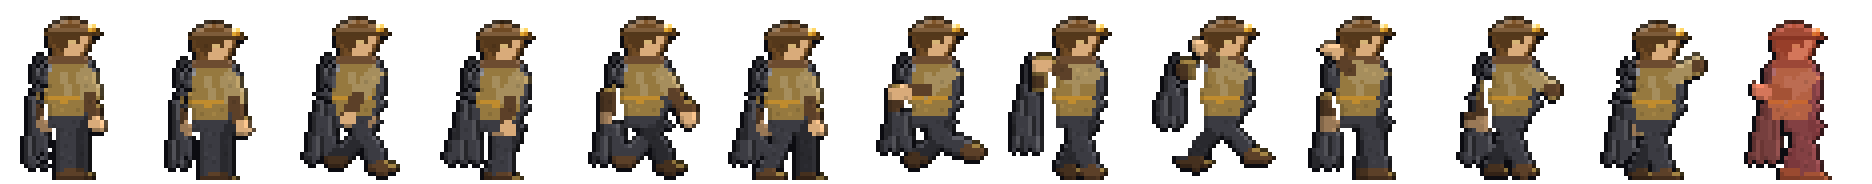
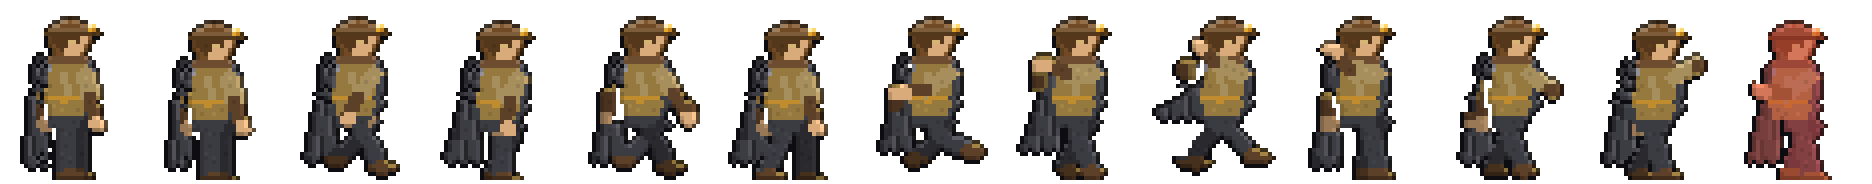
Cape stays on the body in jump/fall/dash, skill tree placeholders, sfx hooks
- mkplayer: air frames anchor the cape at the scarf (torso) instead of the outstretched arm;
  other characters reuse the wanderer's anchor. Frames 0-5 and 9-12 are byte-identical.
- Skill tree: far nodes show an empty dashed frame instead of disappearing
- Sound hooks: step (each footfall), jump, jump2 (air jump); files are added to SFX_FILES later

Claude-Session: https://claude.ai/code/session_015bTXkb4q3SzK7wZ8JdbtYP

Changed region(s): [[0.5267, 0.2989, 0.6506, 0.8424], [0.5267, 0.2989, 0.5577, 0.3261], [0.4647, 0.5707, 0.4957, 0.5978]]

diff --git a/game/js/music.js b/game/js/music.js
@@ -152,6 +152,9 @@ const SFX_FILES = {
   hit_soul: 'hit_soul', hit_arcane: 'hit_arcane',
   hit_flesh: 'hit_flesh', hit_void: 'hit_void',
 
+  /* 몸짓 — step(걷기 박자마다) · jump · jump2(공중 점프) · door_open · door_shut 은 부르는 자리가 이미 있다.
+     파일을 넣을 때 여기에 한 줄 더한다 — 없는 파일을 적어 두면 켤 때마다 404 가 난다. 그전엔 조용하고 문만 합성음. */
+
   /* 별 조각 — 얻을 때 · 다섯이 합쳐질 때 · 떠오를 때. */
   star_gain: 'star_gain', star_merge: 'star_merge', star_rise: 'star_rise'
 };
@@ -199,10 +202,11 @@ const SFX_GAP = {
   /* ★ 몹의 발사음은 **한 묶음에 한 번**만 울려야 한다. */
   efire_phys: 0.1, efire_magic: 0.1,
   /* 별 조각은 이야기의 한 순간이라 막을 일이 없다. */
-  star_gain: 0.2
+  star_gain: 0.2,
+  step: 0.12
 };
 /* 키별 음량 배수 — 공장 상시음은 전투음보다 한참 작게 깔린다 */
-const SFX_VOL = { belt: 0.3, drill: 0.45, smelt: 0.5, cook: 0.55, turret: 0.6, zap: 0.7,
+const SFX_VOL = { step: 0.35, jump: 0.6, jump2: 0.6, belt: 0.3, drill: 0.45, smelt: 0.5, cook: 0.55, turret: 0.6, zap: 0.7,
   bubble: 0.5, detector: 0.45, ore_hit: 0.7, drown: 0.85, boom_small: 0.9, boom_big: 1,
   /* 별 조각 셋은 다른 효과음보다 길어서(0.9~1.5초) 같은 크기로 두면 그 동안 다른 소리를 전부 덮는다. */
   star_gain: 0.7, star_merge: 0.85, star_rise: 0.9,

diff --git a/game/js/game.js b/game/js/game.js
@@ -5664,10 +5664,11 @@ const G = {
     const st = Math.floor(this.time * 9) % 4;
     const step = st !== this._dustSt && (st === 0 || st === 2);
     this._dustSt = st;
-    if (!step || !p.onGround || p.swimming || Math.abs(p.vx) < 60 || Math.random() > 0.55) return;
+    if (!step || !p.onGround || p.swimming || Math.abs(p.vx) < 60) return;
     const w = this.world, fy = p.y + p.h + 1;
     const tx = Math.floor(p.cx / TS), ty = Math.floor(fy / TS);
-    if (w.liquid(tx, ty - 1)) return;                     // 얕은 물을 걸을 땐 먼지가 안 인다
+    this.sfx('step', 0.9 + Math.random() * 0.2);          // 발소리는 딛는 칸마다(파일이 있을 때만 울린다)
+    if (w.liquid(tx, ty - 1) || Math.random() > 0.55) return;   // 얕은 물을 걸을 땐 먼지가 안 인다
     const d = TILE_DEF[w.get(tx, ty)];
     if (!d || !d.solid || !d.c) return;
     const n = Math.random() < 0.3 ? 2 : 1;

diff --git a/game/css/style.css b/game/css/style.css
@@ -313,7 +313,11 @@ button{
 .node.learned .nrank{color:var(--gold)}
 .node.maxed .nbox{background:#221d0e;box-shadow:0 0 0 1px var(--bc),0 0 16px color-mix(in srgb,var(--bc) 42%,transparent)}
 .node.locked{opacity:.4}
-.node.unseen,.bline.unseen{visibility:hidden}
+/* 아직 먼 칸 — 무엇인지는 숨기고 '여기에 칸이 있다'는 빈 틀만 남긴다 */
+.bline.unseen{visibility:hidden}
+.node.unseen{opacity:1;pointer-events:none}
+.node.unseen .nbox{background:transparent;border:1px dashed #3a3524;box-shadow:none}
+.node.unseen .nic,.node.unseen .nlock,.node.unseen .nname,.node.unseen .nrank{visibility:hidden}
 .node.locked .nlock{opacity:.9}
 .node.active .nbox::after{content:'';position:absolute;inset:-4px;border-radius:8px;
   border:1px solid var(--gold);opacity:.75;pointer-events:none}

diff --git a/game/js/entity.js b/game/js/entity.js
@@ -959,6 +959,7 @@ class Player extends Ent {
         G.parts.push(new Part(this.cx + (Math.random() - .5) * 14, this.y + this.h * .3, '#bfe4ff', -30, .5));
     } else {
       if (input.jump && !this.jumpHeld && this.jumpsLeft > 0) {
+        G.sfx(this.onGround ? 'jump' : 'jump2', 0.94 + Math.random() * 0.12);
         this.vy = -620; this.jumpsLeft--; this.jumpHeld = true;
         if (!this.onGround) for (let i = 0; i < 8; i++) G.parts.push(new Part(this.cx, this.y + this.h, '#cfe8ff'));
       }

diff --git a/tools/mkplayer.py b/tools/mkplayer.py
@@ -247,7 +247,9 @@ def polish(c):
 #   주름은 좌표로 정한 세로 줄(5칸마다 한 번 어둡게·밝게)이라 프레임이 바뀌어도 들끓지 않고, 밑단은 톱니.
 # 프레임별 (뒤로 끌림, 밑단 올라감): 0·1 서기 · 2~5 걷기 · 6 점프 · 7 낙하 · 8 대시 · 9~11 공격 · 12 피격
 CAPE_MOTION = {0: (0, 0), 1: (0, 0), 2: (2, 0), 3: (3, 1), 4: (2, 0), 5: (3, 1), 6: (2, 1), 7: (4, 4),
-               8: (3, 8), 9: (1, 0), 10: (2, 1), 11: (2, 1), 12: (2, 1)}
+               8: (16, 10), 9: (1, 0), 10: (2, 1), 11: (2, 1), 12: (2, 1)}
+AIR_FRAMES = (6, 7, 8)                               # 점프 · 낙하 · 대시
+AIR_ANCHOR = {6: 10, 7: 11, 8: 17}                   # 방랑자에서 잰 값(그리면서 다시 채운다)
 CAPE_HEX = ('20232e', '272a38', '35394b', '494e5e')   # 방랑자 망토색(어둡게→밝게)
 
 
@@ -280,11 +282,21 @@ def drape(c, f, pal, near=None):
     sway, lift = CAPE_MOTION[f]
     hem = feet - 3 - lift
     anchor = min(bx.get(y, 99) for y in range(top, top + 4))
+    # 공중·대시 장은 팔을 뒤로 뻗어 몸 왼끝이 팔끝이다 — 거기 매달면 망토가 몸에서 떨어져 난다.
+    # 이 장만 목도리(몸통) 기준으로 걸고, 팔 줄도 망토를 채운다(팔은 불투명이라 앞에 남는다).
+    air = f in AIR_FRAMES
+    if air and scarf:
+        anchor = min(x for y in range(FH) for x in range(FW) if c[y][x][3] and hx(c[y][x]) == '9c463f') - 2
+        AIR_ANCHOR[f] = anchor
+    elif air:
+        anchor = AIR_ANCHOR[f]                         # 목도리 색이 다른 캐릭터 — 자세는 방랑자와 같다
     new = []
     for y in range(top, hem + 1):
         t = (y - top) / max(1, hem - top)
         xl = round(anchor - (1.2 + 3.0 * t ** 0.85) - sway * t * t)
         xr = min(bx.get(y, anchor + 2), anchor + 2) if y > top + 3 else bx.get(y, anchor + 1)
+        if air:
+            xr = anchor + 2 if y > top + 3 else anchor + 1
         for x in range(max(1, xl), xr):
             if c[y][x][3] or (y == hem and (x + f) % 3 == 0):
                 continue

diff --git a/CLAUDE.md b/CLAUDE.md
@@ -313,6 +313,7 @@ bash tools/build-site.sh         # game/ → site/play/ 복사 + 매니페스트
   게임 폴더의 시트를 도구에 다시 먹이지 말 것(두 번 늘어난다).
   서 있는 두 장의 망토는 걷기(walk4)의 것, walk3 다리는 walk1 다리(앞뒤 색 맞바꿈)로 고쳐 굽는다(`fix_frames`).
   망토는 `drape` 가 새로 그린다 — 목도리 밑 어깨에서 발목까지, 아래로 넓어지고 프레임마다 끌림·들림(`CAPE_MOTION`), 투명 칸에만 칠해 몸은 늘 앞.
+  점프·낙하·대시 장(`AIR_FRAMES`)은 팔을 뒤로 뻗어 몸 왼끝이 팔끝이라, 망토를 목도리 기준으로 건다(목도리 색이 다른 캐릭터는 `AIR_ANCHOR`).
   피격 장(붉게 물든 장)은 9번과의 채널별 1차 맞춤으로 망토색을 물들인다. 칸 폭을 바꾸면 index.html 새 게임 창 `.por` 크기도 같이.
   무기는 매니페스트 `hand`·`handBox`(프레임마다 무기 손)에 쥐이고 손 칸을 무기 위에 다시 그린다(game.js `playerHand`).
   헤엄은 걷기 네 장을 눕혀 돌린다(`drawSwimPlayer`). ★ 팔·망토를 코드로 그리던 리그는 원래 그림의 디테일이 빠져
@@ -338,7 +339,8 @@ bash tools/build-site.sh         # game/ → site/play/ 복사 + 매니페스트
 - **바닷속 빛**(world.js `computeLight` 시드): 바닷물 칸은 수심만큼 햇빛을 잃되(칸당 0.42) 흩어진 빛 `1.2 + 낮빛×0.1` 은 남는다 —
   수면이 화면 밖이면 스윕이 빛을 못 받아 깊은 바다가 새까매졌다. 물속 헤엄 몹은 발광이 아니라 어두운 윤곽 + 등에 맺힌 한 줄로
   물과 가른다(game.js `drawEnemy`). 걸을 때 발밑 흙먼지는 `walkDust`(그림만, 발 딛는 칸마다 절반쯤 한 톨).
-- 특성 트리: 잠긴 칸은 **열린 칸(배웠거나 배울 수 있는 칸)과 선으로 이어진 것만** 보인다(ui.js `refreshTree` · `.unseen`).
+- 효과음 `step`·`jump`·`jump2`·`door_open`·`door_shut` 은 부르는 자리가 이미 있다 — 파일을 넣으면 music.js `SFX_FILES` 에 한 줄만 더한다.
+- 특성 트리: 잠긴 칸은 **열린 칸(배웠거나 배울 수 있는 칸)과 선으로 이어진 것만** 보이고, 나머지는 빈 점선 틀만 남는다(ui.js `refreshTree` · `.unseen`).
 - 하늘: 해의 높이로 노을(gold)을 매기고 하늘·원경 안개(`skyHaze`)가 같이 물든다(`drawSky`·`drawSun`).
 - 동굴에는 **갈래**가 있다(data.js `CAVE_TYPES` · world.js `buildCaveZones`) — 60×55 칸 구역마다
   이끼·종유·수정·독기 중 하나. 장식은 **자연 벽지 위 빈 칸에만** 놓고 전부 걸음을 안 막는다.
